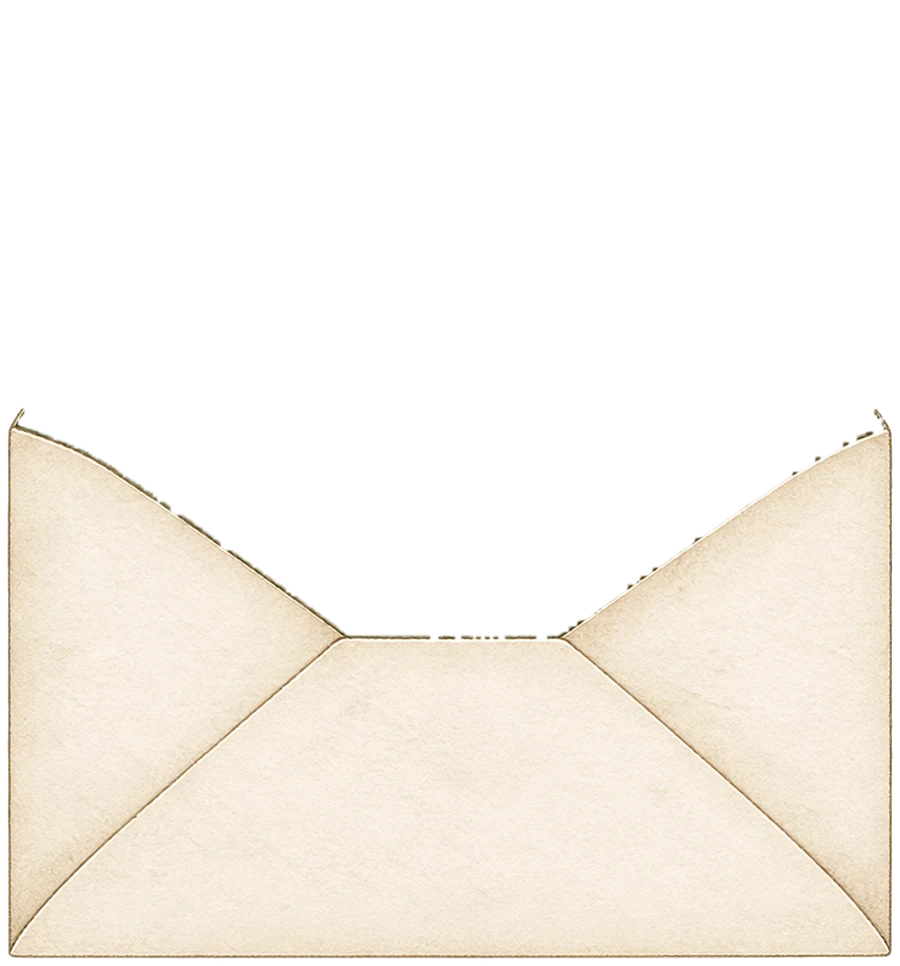
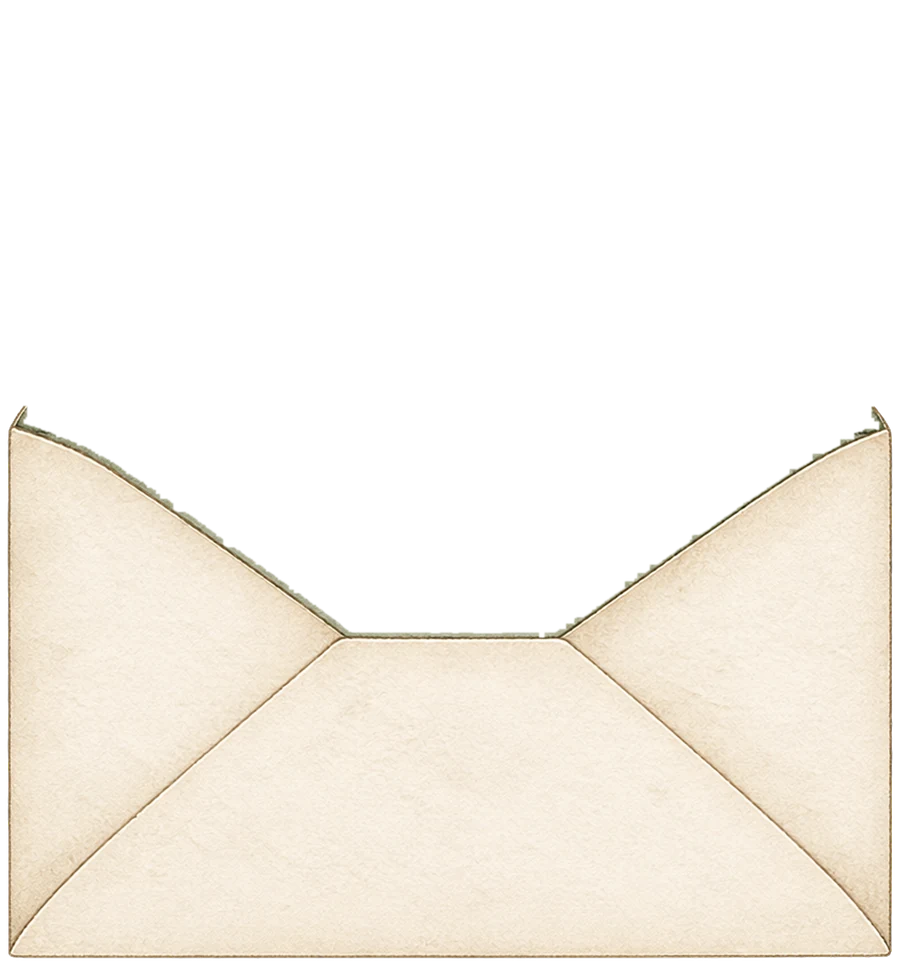
Pocket covers its outline; raised flap hidden until it opens

diff --git a/index.html b/index.html
@@ -283,7 +283,7 @@
   /* both flaps hinge on the envelope's top edge */
   .flap-closed, .flap-raised { transform-origin: 50% 41.97%; backface-visibility: hidden; }
   .flap-closed { animation: flap-lift .8s cubic-bezier(.5,0,.9,.6) 1.25s both; }
-  .flap-raised { transform: rotateX(-90deg); animation: flap-stand .85s cubic-bezier(.1,.6,.3,1) 2.05s both; }
+  .flap-raised { transform: rotateX(-90deg); opacity: 0; animation: flap-stand .85s cubic-bezier(.1,.6,.3,1) 2.05s both; }
   .glow {
     position: absolute; left: 50%; top: 42%; width: 120%; aspect-ratio: 1; margin: 0 0 0 -60%; transform: translateY(-50%) scale(.5);
     border-radius: 50%;
@@ -306,7 +306,7 @@
 
   @keyframes env-in     { from { opacity: 0; transform: translateY(34px) scale(.84); } to { opacity: 1; transform: none; } }
   @keyframes flap-lift  { from { transform: rotateX(0); } to { transform: rotateX(90deg); } }
-  @keyframes flap-stand { from { transform: rotateX(-90deg); } to { transform: rotateX(0); } }
+  @keyframes flap-stand { 0% { transform: rotateX(-90deg); opacity: 0; } 4% { opacity: 1; } 100% { transform: rotateX(0); opacity: 1; } }
   @keyframes glow       { 0% { opacity: 0; transform: translateY(-50%) scale(.5); } 30% { opacity: .9; } 100% { opacity: 0; transform: translateY(-50%) scale(1.25); } }
   @keyframes card-up    { from { transform: translateY(44%); } to { transform: translateY(-46%); } }
   @keyframes intro-out  { to { opacity: 0; visibility: hidden; } }
